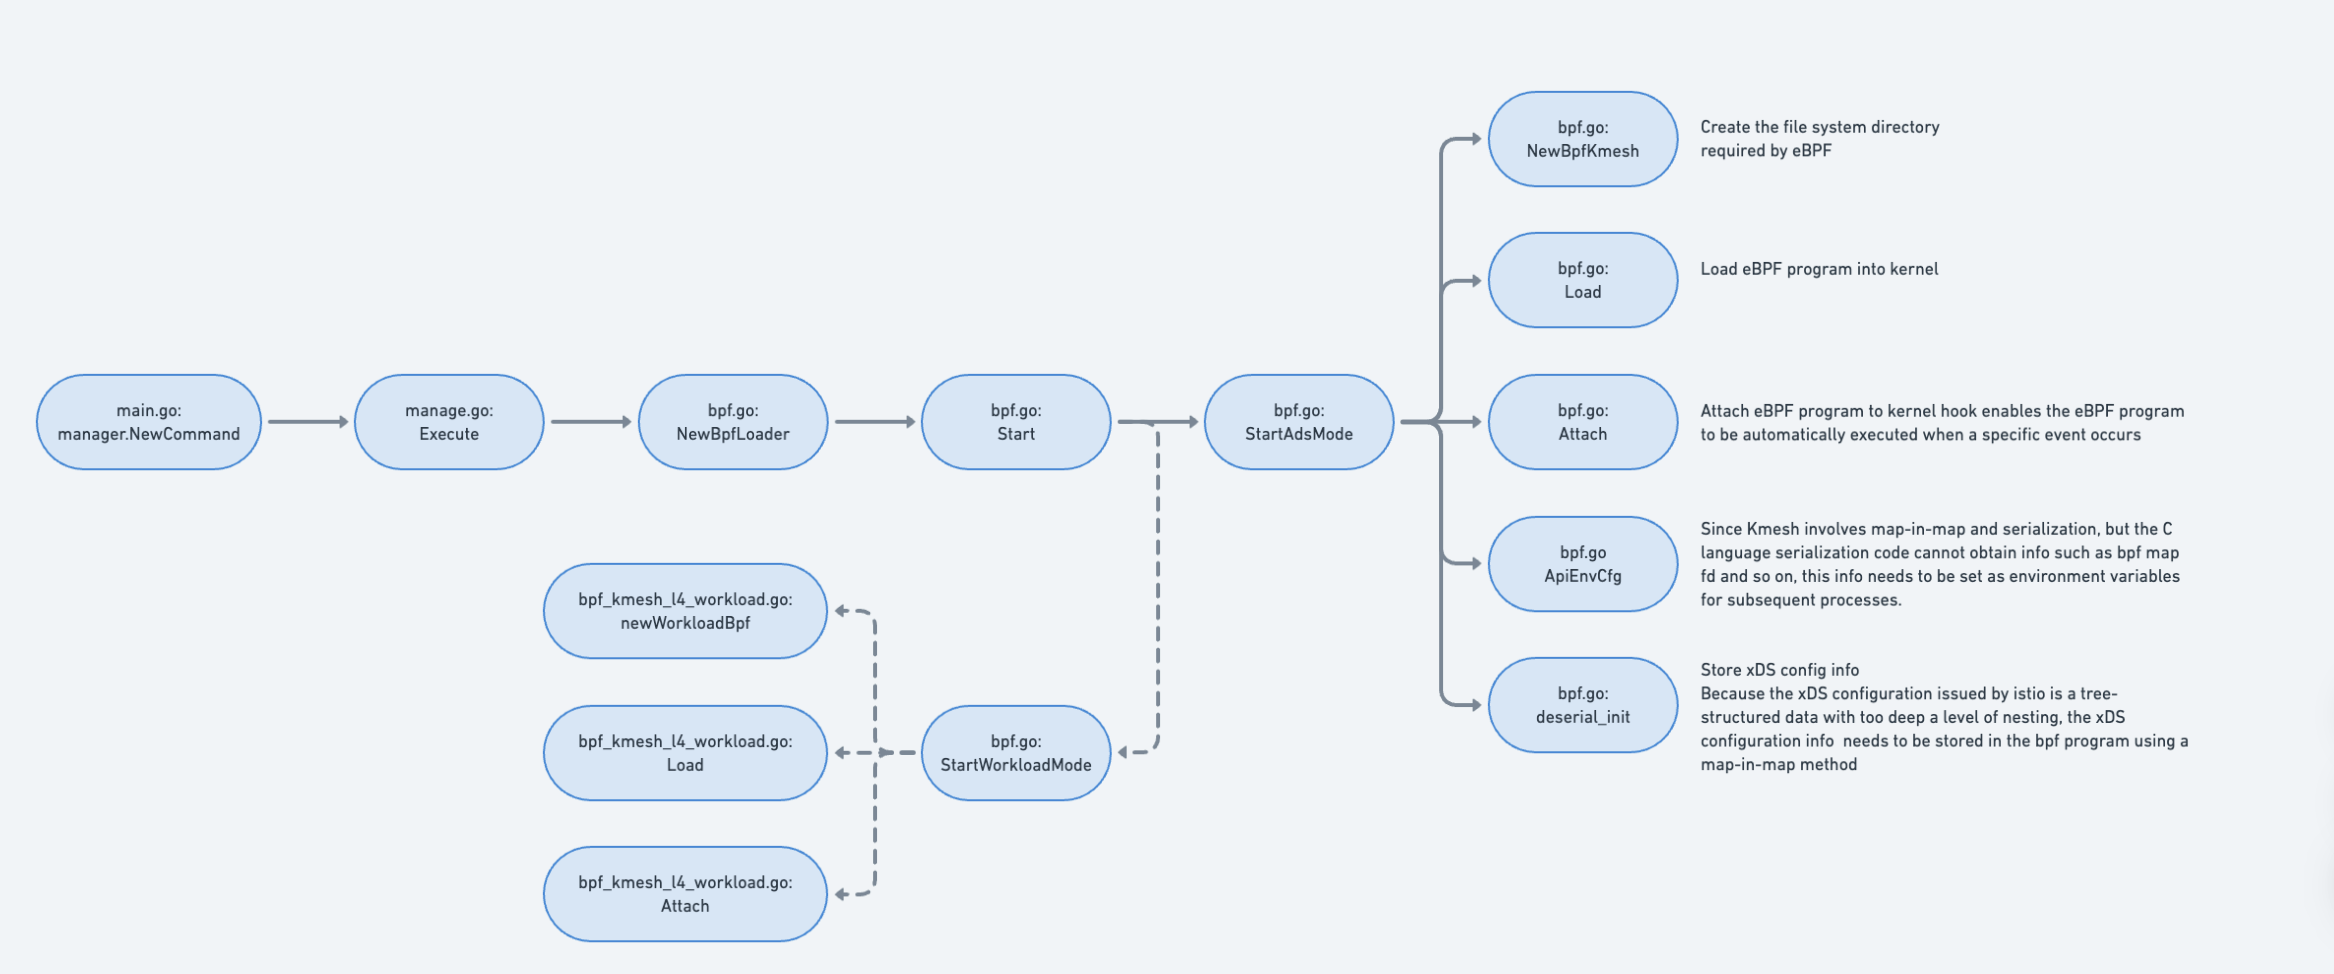
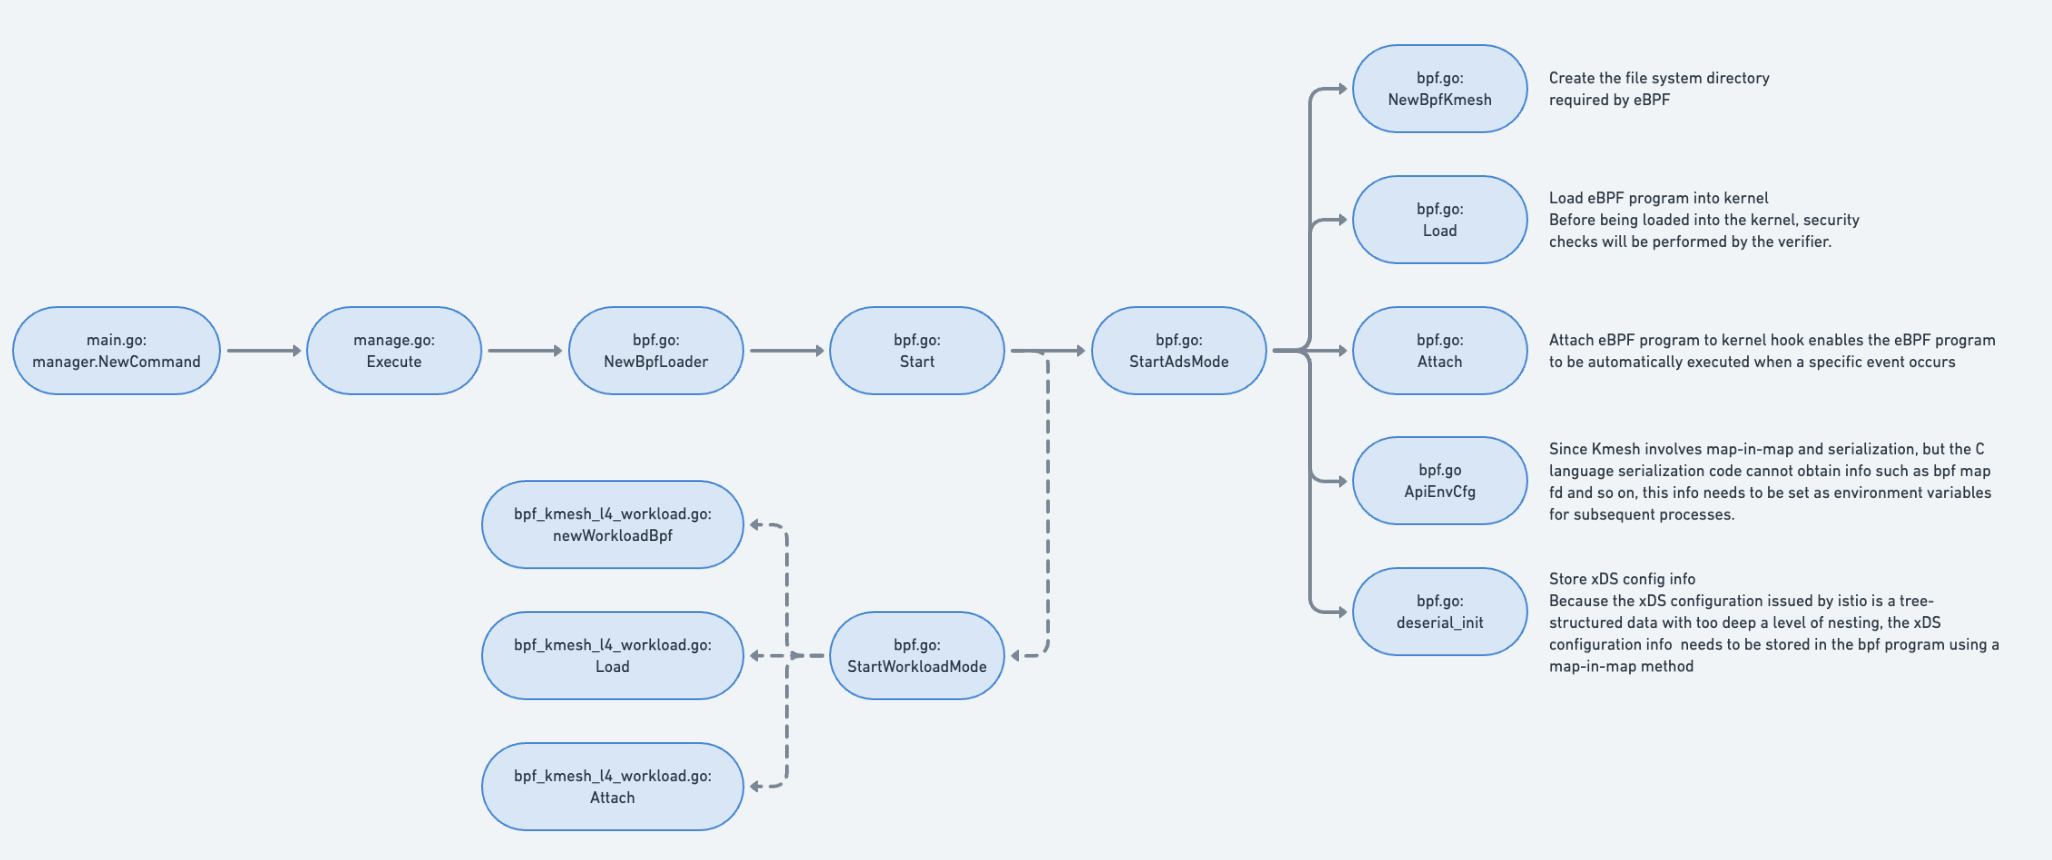
add pic for bpf attach points

Changed region(s): [[0.0, 0.0302, 0.9669, 0.8163], [0.2183, 0.5442, 0.499, 0.9674]]

diff --git a/docs/Startup_process_of_eBPF_programs.md b/docs/Startup_process_of_eBPF_programs.md
@@ -18,20 +18,27 @@ The following figure shows the main process of enabling eBPF programs, from prep
 
 ![alt text](pics/startup_process_of_eBPF_programs.png)
 
+![alt text](pics/kmesh-attach-point.png)
+
 `Newbpfloader` will generate configuration information based on the information filled in the startup configuration item to selectively start the Kmesh function
+
+`load` will call the BPF_PROG_LOAD system call to load the compiled eBPF program into the kernel. Before the loading takes effect, it will undergo security verification by the verifier, including security check, memory check, program size and complexity limit check, recursion check, etc.
 
 #### Startup process in ads mode (StartAdsMode)
 
 - NewbpfKmesh: Create the file system directory required by eBPF according to the configuration, including the file path of BPF map and prog
 - Load: Load the eBPF program of Kmesh, obtain the type and additional type of the program, and update the tail call program to implement the routing forwarding function
 - Attach: Attach the eBPF program of Kmesh to the specified cgroup and manage the eBPF program using bpflink
+Three main eBPF programs involved in ads mode have different attach points. The eBPF programs of sockconn and sockops types are mounted on cgroup2, and the path is /mnt/kmesh_cgroup2. The eBPF program of tracepoint type is mounted on the return value of the connect system call to support the delayed link establishment function of Kmesh
+
 - ApiEnvCfg：Since Kmesh involves map-in-map and serialization, but the C language serialization code cannot obtain info such as bpf map fd and so on, this info needs to be set as environment variables for subsequent processes.
 - deserial_init: Because the xDS configuration issued by istio is a tree-structured data with too deep level of nesting, the xDS configuration info needs to be stored in the bpf program using a map-in-map method
 
 #### Startup process in workload mode (StartworkloadMode)
 
 - NewWorkloadBpf: Create the file system directory required by eBPF according to the configuration, including the file path of BPF map and prog
-- Load: Load the eBPF program of Kmesh, obtain the type and additional type of the program, and update the tail call program to implement the routing forwarding function
+- Load: Load the e BPF program of Kmesh, obtain the type and additional type of the program, and update the tail call program to implement the routing forwarding function
 - Attach: Attach the eBPF program of Kmesh to the specified cgroup and manage the eBPF program using bpflink
+The four main eBPF programs involved in workload mode, the eBPF programs of sockconn and sockops types are mounted on cgroup2, and the path is /mnt/kmesh_cgroup2. The eBPF program of sendmsg type is mounted on the eBPF program of sockops type, and the xdpauth eBPF program is mounted in the network card driver of the pod managed by Kmesh.
 
 Most of the processes are the same as Ads mode. The difference is that the eBPF programs loaded in workload mode and ads mode and the mounting hook points are different. Another difference is that there is no need to add additional storage and parsing for map-in-map, because the configuration information issued by istio in workload mode can be stored in the workload structure provided by istio.
